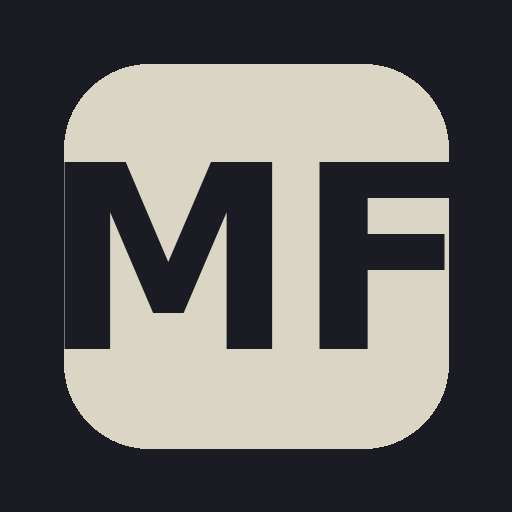
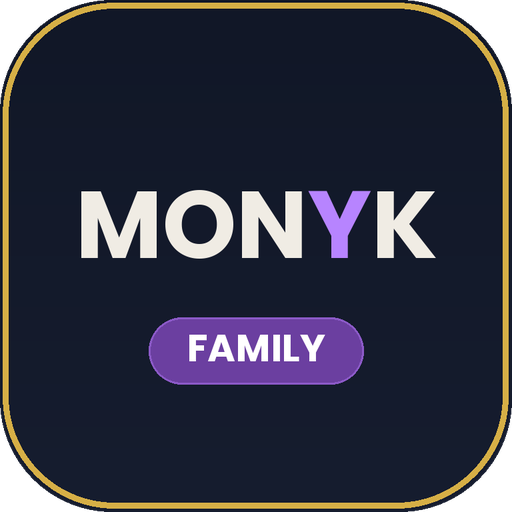
Add files via upload

diff --git a/Monyk-family.html b/Monyk-family.html
@@ -2,15 +2,15 @@
 <html lang="hu">
 <head>
 <meta charset="UTF-8">
-<link href="https://fonts.googleapis.com/css2?family=Bricolage+Grotesque:wght@400;700;800;900&display=swap" rel="stylesheet">
+<link href="https://fonts.googleapis.com/css2?family=Bricolage+Grotesque:wght@400;700;800;900&family=Fraunces:opsz,wght@9..144,500;9..144,700;9..144,900&family=JetBrains+Mono:wght@500;700;800&display=swap" rel="stylesheet">
 <meta name="viewport" content="width=device-width, initial-scale=1.0, maximum-scale=1.0, user-scalable=no, viewport-fit=cover">
 <title>MONYK Family</title>
 <link rel="manifest" href="manifest.json">
-<meta name="theme-color" content="#1B1B23">
+<meta name="theme-color" content="#6B3FA0">
 <meta name="apple-mobile-web-app-capable" content="yes">
 <meta name="apple-mobile-web-app-status-bar-style" content="black-translucent">
 <meta name="apple-mobile-web-app-title" content="MONYK Family">
-<link rel="apple-touch-icon" href="icon-192.png">
[1 lines of base64/hex data omitted]
 <script src="https://www.gstatic.com/firebasejs/10.13.0/firebase-app-compat.js"></script>
 <script src="https://www.gstatic.com/firebasejs/10.13.0/firebase-auth-compat.js"></script>
 <script src="https://www.gstatic.com/firebasejs/10.13.0/firebase-firestore-compat.js"></script>
@@ -18,12 +18,12 @@
 <style>
 *, *::before, *::after { box-sizing:border-box; margin:0; padding:0; -webkit-tap-highlight-color:transparent; }
 :root {
-  --bg:#DAD5C4; --bg2:#F5F3EC; --bg3:#EEEBE0;
-  --acc:#1B1B23; --acc2:#000000; --border:#1B1B23;
-  --text:#1B1B23; --muted:#6E6C66;
-  --green:#3F5D3A; --warn:#8A6A2A; --red:#A6332B;
-  --hero:linear-gradient(135deg,#1B1B23 0%,#1B1B23 100%);
-  --font-body:'IBM Plex Mono',monospace; --font-display:'IBM Plex Mono',monospace; --font-mono:'IBM Plex Mono',monospace;
+  --bg:#F4EFF9; --bg2:#FFFFFF; --bg3:#ECE1F5;
+  --acc:#6B3FA0; --acc2:#4A2472; --border:#DFCEEF;
+  --text:#2A1B38; --muted:#8C7A9C;
+  --green:#4C7A5C; --warn:#B98A3C; --red:#B23A54;
+  --hero:linear-gradient(135deg,#4A2472 0%,#6B3FA0 55%,#8B5FC0 100%);
+  --font-body:'Bricolage Grotesque',sans-serif; --font-display:'Fraunces',serif; --font-mono:'JetBrains Mono',monospace;
   --nav-h:60px;
   --sab:env(safe-area-inset-bottom, 0px);
   --sat:0px;
@@ -62,6 +62,26 @@ body.theme-color.dark-mode {
   --bg:#131311; --bg2:#1D1D1A; --bg3:#211F1A; --acc:#7B7FE0; --acc2:#B4B6F0; --border:#333230;
   --text:#F2F0EA; --muted:#8F8D85; --green:#93A85C; --warn:#D6A15C; --red:#E2604C;
   --hero:linear-gradient(135deg,#2E3170 0%,#454890 100%);
+}
+/* ── MONYK FAMILY SAJÁT ARCULAT: "Családi Lila" ── */
+body.theme-family {
+  --bg:#F4EFF9; --bg2:#FFFFFF; --bg3:#ECE1F5; --acc:#6B3FA0; --acc2:#4A2472; --border:#DFCEEF;
+  --text:#2A1B38; --muted:#8C7A9C; --green:#4C7A5C; --warn:#B98A3C; --red:#B23A54;
+  --hero:linear-gradient(135deg,#4A2472 0%,#6B3FA0 55%,#8B5FC0 100%);
+  --font-body:'Bricolage Grotesque',sans-serif; --font-display:'Fraunces',serif; --font-mono:'JetBrains Mono',monospace;
+}
+body.theme-family.dark-mode {
+  --bg:#1C1224; --bg2:#251731; --bg3:#2C1D3A; --acc:#B48EE8; --acc2:#D8C2F7; --border:#3A2A4C;
+  --text:#F3EAFA; --muted:#9C89AE; --green:#82C296; --warn:#DDB25E; --red:#E58BA0;
+  --hero:linear-gradient(135deg,#1C1224 0%,#3A1F52 60%,#20142C 100%);
+}
+/* Aláírás-elem: szaggatott "napló-öltés" vonal a fejléc alján, csak a saját témánál */
+body.theme-family .header {
+  background-image:var(--hero),
+    repeating-linear-gradient(90deg, rgba(255,255,255,.55) 0 6px, transparent 6px 12px);
+  background-position:0 0, 0 100%;
+  background-size:100% 100%, 100% 2px;
+  background-repeat:no-repeat;
 }
 body[class*="theme-"], body[class*="theme-"] * { font-family:var(--font-body) !important; }
 body[class*="theme-"] [style*="Courier New"],
@@ -5037,6 +5057,7 @@ const THEMES = [
 ];
 
 const APP_THEMES = [
+  { id:'family', label:'Családi Lila',  acc:'#6B3FA0', bg:'#F4EFF9', bg2:'#FFFFFF' },
   { id:'mono',  label:'Ledger Mono',  acc:'#1B1B23', bg:'#DAD5C4', bg2:'#F5F3EC' },
   { id:'folio', label:'Folio',        acc:'#1F3FD1', bg:'#EFEBDF', bg2:'#FAF8F3' },
   { id:'color', label:'Ledger Color', acc:'#5B5FC7', bg:'#EFEFEA', bg2:'#FFFFFF' },
@@ -5058,7 +5079,7 @@ function setDefaultKonyveles(mode) {
   try { localStorage.setItem('familia_defkonyveles', mode); } catch(e) { console.warn('[MONYK]', e); }
 }
 
-let activeAppTheme = 'mono';
+let activeAppTheme = 'family';
 let darkModeFam = false;
 function setAppTheme(id) {
   const th = APP_THEMES.find(x=>x.id===id); if(!th) return;
@@ -5080,8 +5101,8 @@ function setFamDarkMode(on) {
 // Induláskor: a fő MONYK appban választott kinézet automatikus átvétele (megosztott localStorage)
 (function initFamilyTheme(){
   try {
-    let saved = localStorage.getItem('monyk_theme') || localStorage.getItem('familia_apptheme') || 'mono';
-    if(!APP_THEMES.some(x=>x.id===saved)) saved = 'mono';
+    let saved = localStorage.getItem('monyk_theme') || localStorage.getItem('familia_apptheme') || 'family';
+    if(!APP_THEMES.some(x=>x.id===saved)) saved = 'family';
     activeAppTheme = saved;
     darkModeFam = localStorage.getItem('monyk_dark') === 'true';
   } catch(e) { console.warn('[MONYK]', e); }